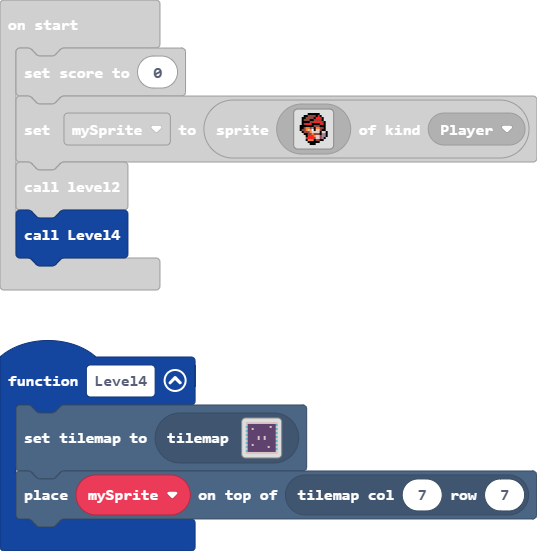
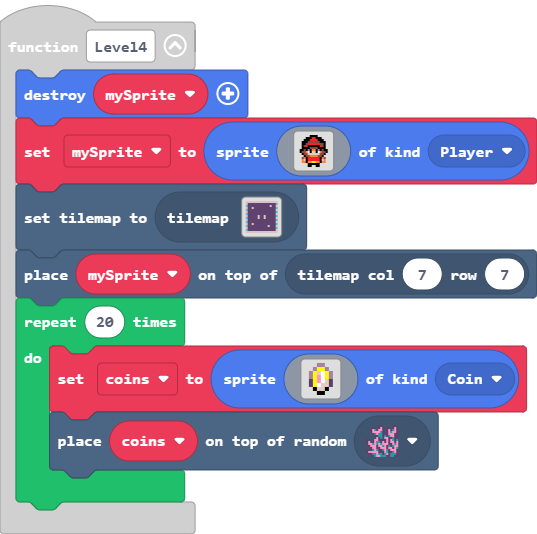
Update main.blocks, main.ts

diff --git a/main.ts b/main.ts
@@ -364,8 +364,40 @@ scene.onHitWall(SpriteKind.Projectile, function (sprite, location) {
     sprites.destroy(sprite)
 })
 function Level4 () {
+    sprites.destroy(mySprite)
+    mySprite = sprites.create(img`
+        . . . . . . f f f f . . . . . . 
+        . . . . f f f 2 2 f f f . . . . 
+        . . . f f f 2 2 2 2 f f f . . . 
+        . . f f f e e e e e e f f f . . 
+        . . f f e 2 2 2 2 2 2 e e f . . 
+        . . f e 2 f f f f f f 2 e f . . 
+        . . f f f f e e e e f f f f . . 
+        . f f e f b f 4 4 f b f e f f . 
+        . f e e 4 1 f d d f 1 4 e e f . 
+        . . f e e d d d d d d e e f . . 
+        . . . f e e 4 4 4 4 e e f . . . 
+        . . e 4 f 2 2 2 2 2 2 f 4 e . . 
+        . . 4 d f 2 2 2 2 2 2 f d 4 . . 
+        . . 4 4 f 4 4 5 5 4 4 f 4 4 . . 
+        . . . . . f f f f f f . . . . . 
+        . . . . . f f . . f f . . . . . 
+        `, SpriteKind.Player)
     tiles.setCurrentTilemap(tilemap`level8`)
     tiles.placeOnTile(mySprite, tiles.getTileLocation(7, 7))
+    for (let index = 0; index < 20; index++) {
+        coins = sprites.create(img`
+            . . . b b . . . 
+            . . b 5 5 b . . 
+            . b 5 d 1 5 b . 
+            . b 5 3 1 5 b . 
+            . c 5 3 1 d c . 
+            . c 5 1 d d c . 
+            . . f d d f . . 
+            . . . f f . . . 
+            `, SpriteKind.Coin)
+        tiles.placeOnRandomTile(coins, sprites.builtin.coral1)
+    }
 }
 sprites.onCreated(SpriteKind.Player, function (sprite) {
     controller.moveSprite(sprite)
